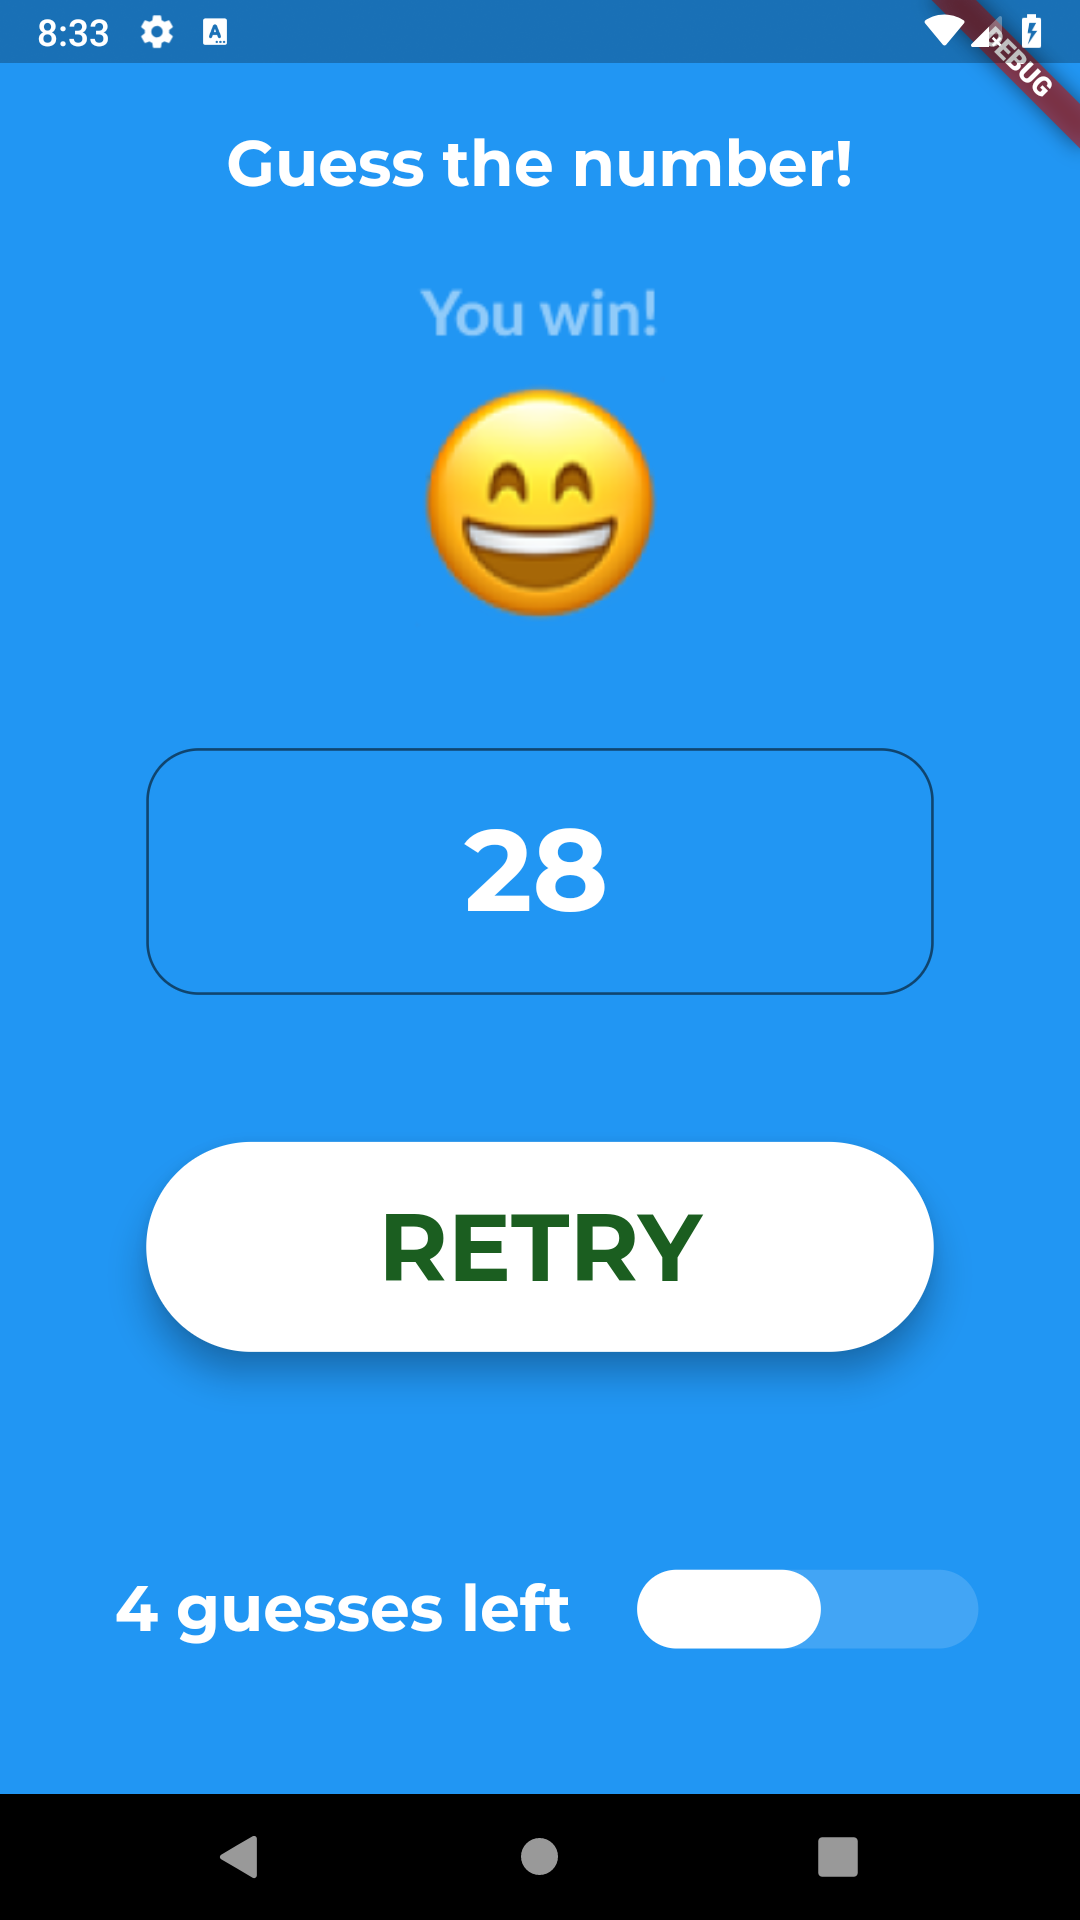
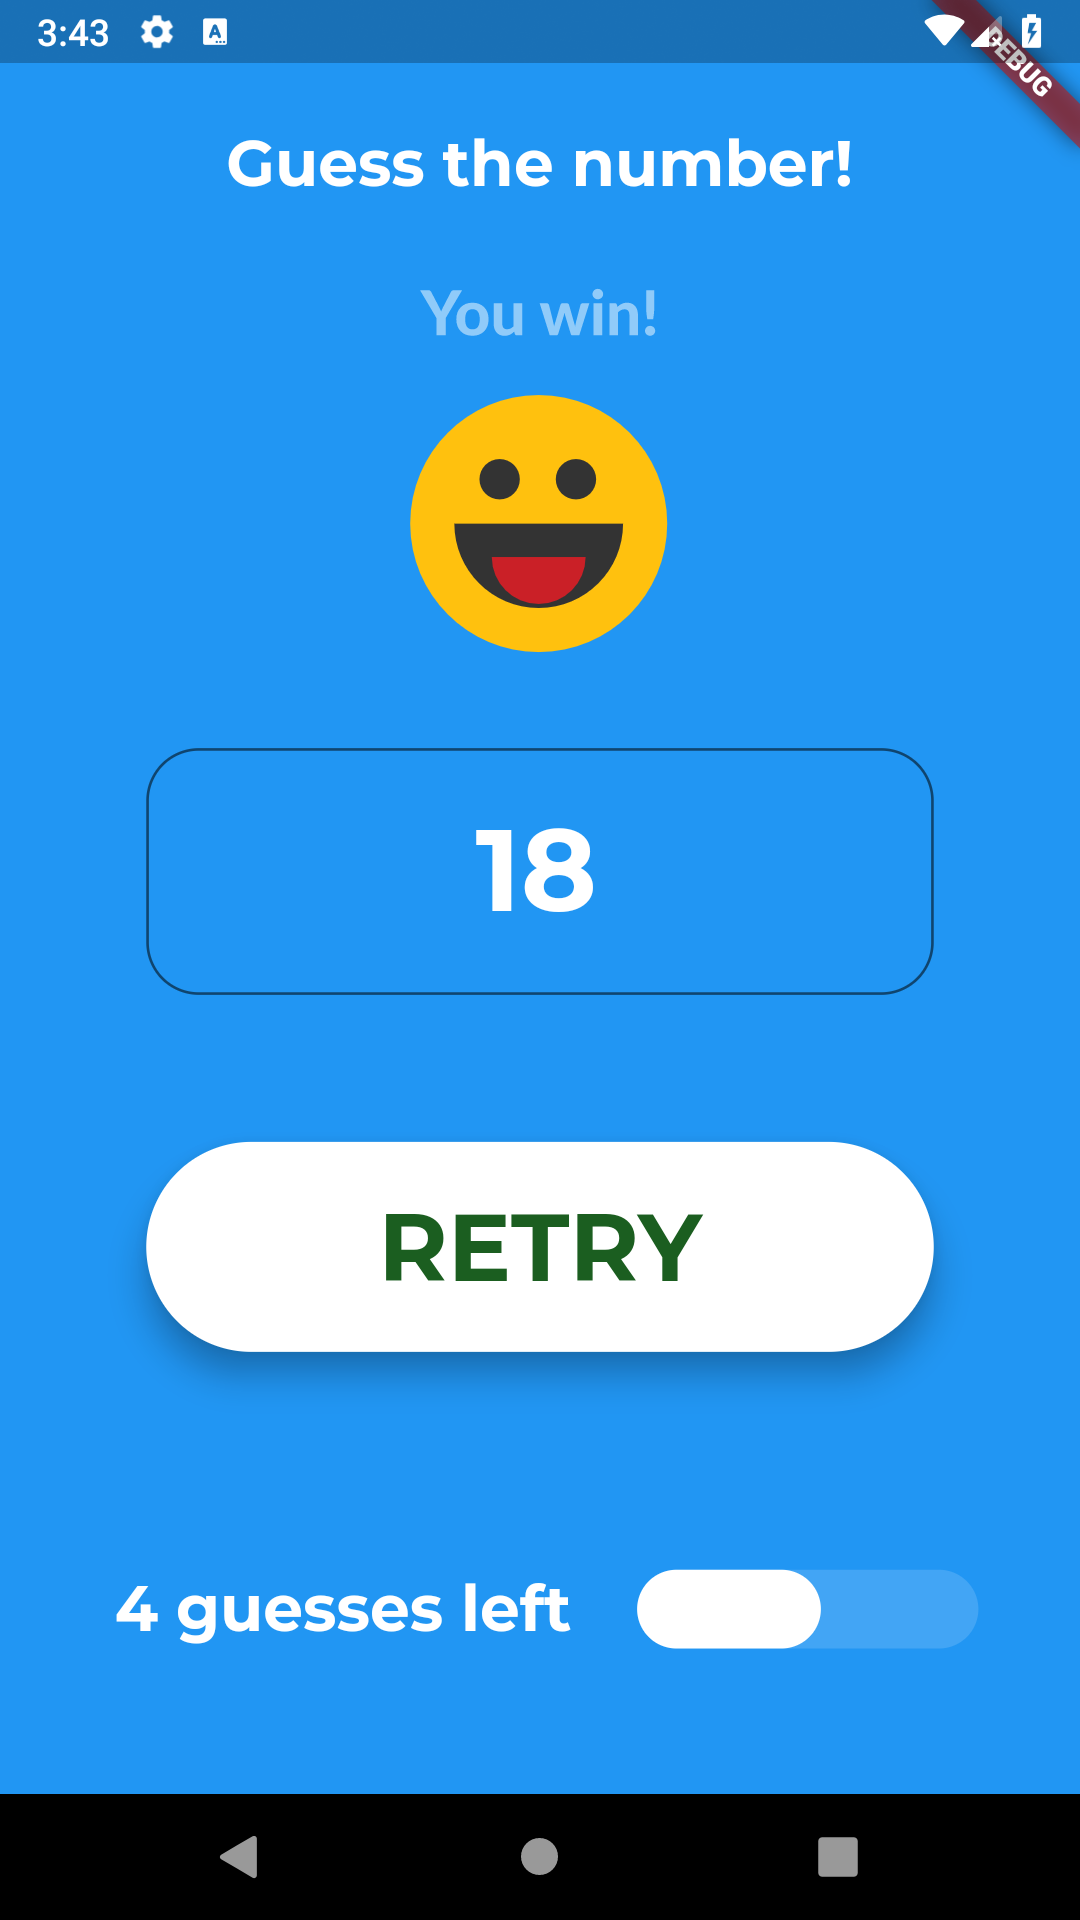
final submission

Changed region(s): [[0.3667, 0.1562, 0.6417, 0.3438], [0.4278, 0.4375, 0.5806, 0.5], [0.0611, 0.0, 0.0917, 0.0312]]

diff --git a/lib/welcome.dart b/lib/welcome.dart
@@ -1,6 +1,7 @@
 import 'package:flutter/material.dart';
 import 'package:percent_indicator/percent_indicator.dart';
 import 'dart:math';
+import 'package:flutter_svg/flutter_svg.dart';
 
 class Welcome extends StatefulWidget {
   @override
@@ -118,8 +119,8 @@ class WelcomeState extends State<Welcome> {
   }
 
   Widget _displayResult(image) {
-    return Image(
-      image: AssetImage("assets/images/$image.png"),
+    return SvgPicture.asset(
+      "assets/images/$image.svg",
       height: 180,
       width: 180,
     );
